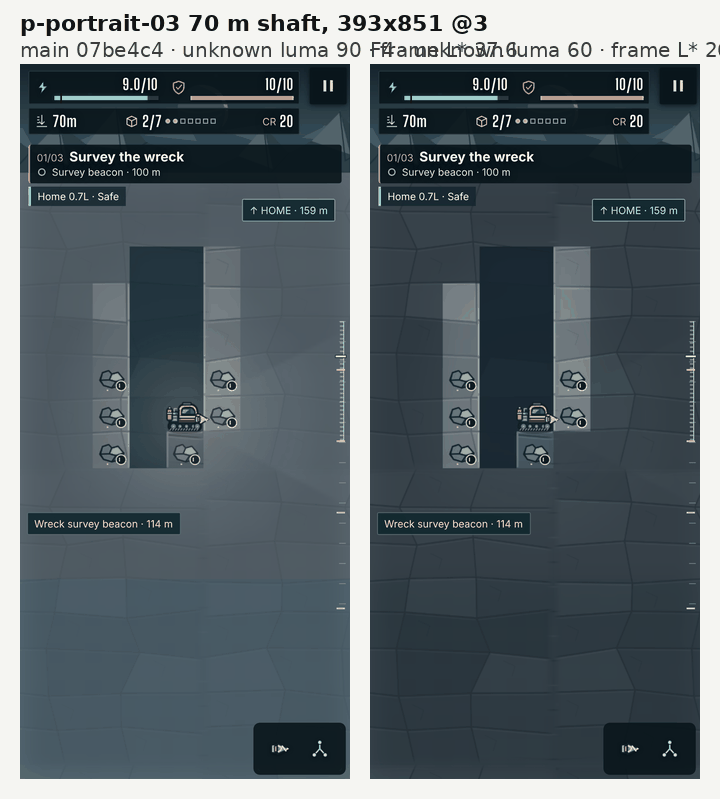
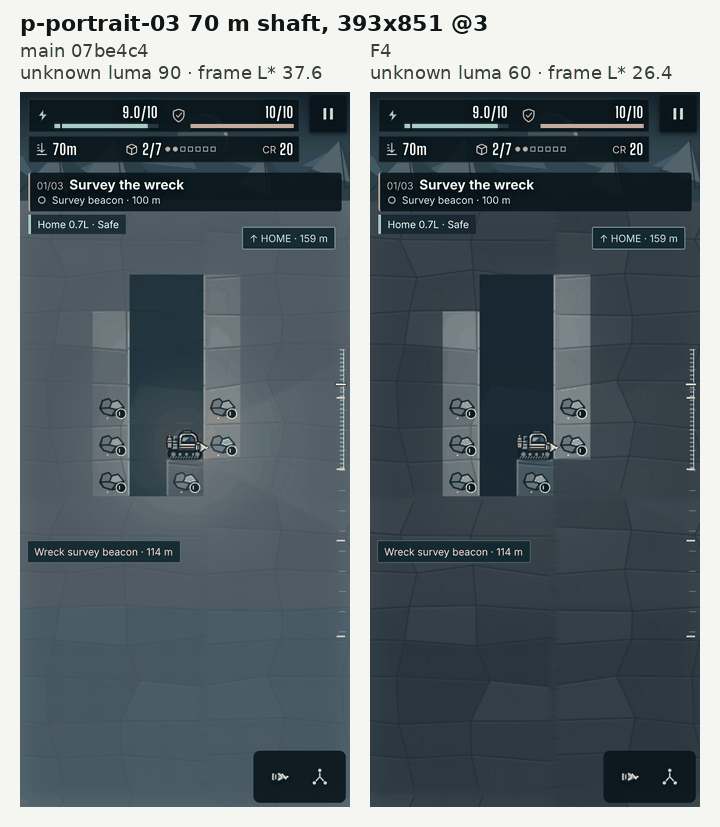
Correct and extend the F4 evidence
- Measure lit hard rock in every band of both worlds: five new frames
  (W01 A 76 m, W01 B 176 m and 266 m, W02 A 106 m, W02 C 526 m) on the
  same source as 3b4a451 and on main. All clear +15; W02 D (+9.2) is
  still the only miss. W01 band B had no frame before.
- W02 D explanation: known hard rock draws its rock page at full
  opacity and the pages are opaque, so the stone base colour #39425c
  is hidden. The lever is the rock page, an asset. Less visible
  darkness also lightens cave air, which breaks unknown - cave air.
- Backing 2.0: sd was 2.9-4.6 on the first F4 revision with F1, not
  "the same" as 2.8-3.8 at backing 1.0.
- Note the fallback strata colour change for unknown cells.
- Redraw the p-portrait-03 sheet so its labels no longer overlap.

Claude-Session: https://claude.ai/code/session_0122q1oSw1t3ScHNBMR5yw6c

diff --git a/docs/qa/f4-value-rekey/README.md b/docs/qa/f4-value-rekey/README.md
@@ -1,6 +1,6 @@
 # F4 value re-key
 
-Evidence for F4 in `docs/ART_QUALITY_AUDIT.md` (§5.2, Phase 0): the darkness order, the unknown-rock and cave-air bases, the deleted cream lamp, and the high-contrast floor. All figures come from commit 3b4a451 against `main` at 07be4c4.
+Evidence for F4 in `docs/ART_QUALITY_AUDIT.md` (§5.2, Phase 0): the darkness order, the unknown-rock and cave-air bases, the deleted cream lamp, and the high-contrast floor. All figures come from the source at commit 3b4a451 (later commits change only this folder) against `main` at 07be4c4.
 
 ## Changes
 
@@ -18,7 +18,7 @@ Evidence for F4 in `docs/ART_QUALITY_AUDIT.md` (§5.2, Phase 0): the darkness or
   | W02 D | 0.16 / 0.52 / 0.52 | 0.31 / 0.24 / 0.18 |
 
   Unknown rock now gets most of its value from its dark base and rock page. Its darkness only trims it into luma 45–65, so remembered and visible darkness have to sit below it. W02's rock pages are much lighter than W01's in bands A–C (mean luma 100–124, against 77–83), so its unknown darkness is higher there.
-- **Unknown rock** (`render/terrain.ts`). The base is `#30383f` on W01 and `#2f4250` on W02, under the band's rock page at 0.5 alpha. On `main` it was `#596771` or `#5d7782` under the soil page at 0.23. The page is chosen by the row's band alone, and unknown cells keep the `"unknown"` signature, so no hidden tile data is read.
+- **Unknown rock** (`render/terrain.ts`). The base is `#30383f` on W01 and `#2f4250` on W02, under the band's rock page at 0.5 alpha. On `main` it was `#596771` or `#5d7782` under the soil page at 0.23. The page is chosen by the row's band alone, and unknown cells keep the `"unknown"` signature, so no hidden tile data is read. When the page texture is missing, the fallback strata over unknown cells take the band's rock colour instead of its soil colour, to match the page.
 - **Cave air** (`render/terrain.ts`). Known air, both caves and tunnels, starts from `#17242e` before light instead of the band's back-wall colour. The wall page over it drops from 0.55 to 0.25 alpha, so cave air before light stays near its base, at L\* about 14–17. At 0.55 the page lifted W02 cave air to L\* 20–23.
 - **Cream lamp** (`scene.ts`). The 256 px cream radial image drawn with normal blending around the rig is deleted.
 - **High contrast.** It keeps its ×0.65 multiplier, and unknown darkness has a backstop cap of 0.36. That cap keeps unknown rock at or above L\* 18 on its darkest band, W02 D, which is about luma 64 before darkness. At these values the cap never takes effect, because high contrast only lightens. The tests check the floor itself.
@@ -28,16 +28,16 @@ No geometry, light-map structure, overlay or asset changes. `RenderBand.wall` an
 
 ## Acceptance
 
-The table covers the five audit captures at 1440×900 @2 and 393×851 @3, frozen after the view settles. It also includes two W01 frames with hard rock beside the shaft (bands C and D) and W02 shafts in all four bands. Neither `main` nor this branch has F1, so desktop frames render at backing 1.0 and the phone at 1.5.
+The table covers the five audit captures at 1440×900 @2 and 393×851 @3, frozen after the view settles. It also includes W02 shafts in all four bands, and frames with hard rock lit beside the shaft in every band of both worlds, because the lines name no world and hard rock never appears lit in the five captures. Neither `main` nor this branch has F1, so desktop frames render at backing 1.0 and the phone at 1.5.
 
 | Line | Target | `main` | F4 | |
 |---|---|---|---|---|
 | Unknown rock luma, W01 | 45–65 | 84.6–90.7 | 50.3–62.0 | met |
 | Unknown rock luma, W02 | 45–65 | 99.7–116.9 | 48.1–64.2 | met |
-| Unknown rock sd | ≥ 7 | 2.7–6.3 | 2.8–4.7 on cell interiors (W02 70 m: 7.1 and 8.3, from the lamp's falloff); 3.4–6.7 on whole cells | **not met** |
-| Lit soil − unknown, every depth | ≥ +15 | −7.4 to +77.2 | +40.5 to +131.8 | met |
-| Lit hard rock − unknown, W01 C and D | ≥ +15 | +3.3, −4.3 | +24.0, +25.8 | met |
-| Lit hard rock − unknown, W02 B and D | ≥ +15 | −16.4, −33.3 | +27.6, **+9.2** | **not met in W02 D** |
+| Unknown rock sd | ≥ 7 | 2.7–6.3 | 2.8–4.7 on cell interiors (W02 band A: 7.0–8.3, from the lamp's falloff); 3.4–6.7 on whole cells | **not met** |
+| Lit soil − unknown, every depth | ≥ +15 | −7.4 to +91.5 | +40.5 to +144.5 | met |
+| Lit hard rock − unknown, W01 bands A–D | ≥ +15 | −19.3 to +6.8 | +16.5 to +25.8 | met |
+| Lit hard rock − unknown, W02 bands A–D | ≥ +15 | −33.3 to +11.6 | +27.6 to +63.3 in A–C, **+9.2** in D | **not met in W02 D** |
 | Unknown − cave air | ≥ +10 | +34.0 to +54.7 | +11.4 to +25.1 | met |
 | Frame L\*, shaft (a04) | 25.9 ± 4 | 37.6 | 26.5 | met |
 | Frame L\*, cavern (c-site-W01-SITE-4) | 21.0 ± 4 | 26.4 | 19.8 | met |
@@ -56,27 +56,39 @@ Per frame, `main` → F4:
 | b-550m band D | 85.6 / 4.0 → 50.3 / 3.8 | +7.2 → +43.2 | — | +54.7 → +19.5 | 34.8 → 21.7 | 7.2 % → 7.2 % |
 | c-site-W01-SITE-4 | 84.6 / 2.7 → 51.3 / 2.8 | +19.6 → +44.8 | — | +53.4 → +19.2 | 26.4 → 19.8 | 31.5 % → 36.0 % |
 | p-portrait-03 70 m | 90.5 / 4.6 → 60.1 / 4.3 | +23.1 → +56.5 | — | +34.0 → +22.0 | 37.6 → 26.4 | 14.9 % → 20.9 % |
+| W01 band A, hard rock, 76 m | 90.2 / 4.2 → 60.4 / 4.1 | +31.5 → +58.9 | +6.8 → +25.1 | +35.3 → +22.5 | 38.4 → 26.2 | 4.9 % → 6.4 % |
+| W01 band B, hard rock, 176 m | 88.8 / 4.0 → 57.5 / 3.7 | +34.6 → +61.0 | −19.3 → +16.5 | +41.9 → +19.6 | 37.6 → 24.9 | 5.7 % → 6.8 % |
+| W01 band B, hard rock, 266 m | 88.4 / 4.2 → 56.6 / 4.2 | +27.8 → +60.4 | −4.6 → +21.8 | +41.8 → +20.6 | 37.5 → 24.7 | 5.6 % → 6.9 % |
 | W01 band C, hard rock, 380 m | 86.9 / 3.5 → 54.1 / 3.3 | +3.5 → +40.5 | +3.3 → +24.0 | +40.1 → +11.4 | 36.4 → 23.2 | 5.9 % → 6.9 % |
 | W01 band D, hard rock, 530 m | 85.8 / 3.7 → 50.4 / 3.7 | −7.4 → +41.7 | −4.3 → +25.8 | +50.2 → +12.4 | 35.8 → 21.6 | 6.1 % → 7.1 % |
 | W02 band A, 70 m @2 | 115.9 / 4.8 → 61.9 / 7.1 | +77.2 → +131.8 | — | +49.8 → +21.4 | 48.8 → 28.1 | 5.8 % → 7.0 % |
 | W02 band A, 70 m @3 | 116.9 / 6.3 → 64.2 / 8.3 | +76.2 → +129.8 | — | +50.8 → +23.6 | 49.9 → 31.2 | 16.9 % → 20.1 % |
+| W02 band A, hard rock, 106 m | 114.6 / 5.6 → 61.8 / 7.0 | +91.5 → +144.5 | +11.6 → +63.3 | +47.9 → +20.7 | 48.5 → 27.9 | 5.8 % → 6.7 % |
 | W02 band B, 300 m | 108.1 / 3.9 → 62.8 / 4.1 | +50.6 → +98.0 | −16.4 → +27.6 | +46.0 → +13.9 | 44.9 → 28.5 | 5.8 % → 10.2 % |
+| W02 band C, hard rock, 526 m | 104.8 / 4.1 → 63.2 / 4.7 | +20.9 → +79.7 | −0.9 → +38.4 | +47.9 → +24.1 | 43.9 → 27.7 | 5.5 % → 7.1 % |
 | W02 band C, 600 m | 104.7 / 4.2 → 63.1 / 4.7 | +36.8 → +83.7 | — | +50.9 → +25.1 | 44.0 → 28.0 | 5.8 % → 7.8 % |
 | W02 band D, 850 m | 99.7 / 4.0 → 48.1 / 3.6 | +22.2 → +72.3 | −33.3 → +9.2 | +51.8 → +11.4 | 41.2 → 20.9 | 6.5 % → 9.8 % |
 
-**High contrast** (F4): unknown rock averages L\* 22.7–31.8 across these frames, and its 2nd percentile is at L\* 20.3 or above. Both clear the L\* 18 floor.
+**High contrast** (F4): unknown rock averages L\* 22.7–31.8 across the twelve frames measured in high contrast, and its 2nd percentile is at L\* 20.3 or above. Both clear the L\* 18 floor. The five hard-rock frames for bands A and B of W01 and A and C of W02 were measured in normal mode only. There, unknown rock's 2nd percentile is already at L\* 20.9 or above, and high contrast only lightens it.
 
 ### Not met: unknown sd ≥ 7
 
-The band rock pages have a luma sd of 9.0, or 8.6 as drawn. Over a flat base at the specified 0.4–0.5 alpha, they give unknown rock a texture sd of at most 0.5 × 8.6 ≈ 4.3 before darkness. Darkness lowers it further. The few frames above 7 on cell interiors (W02 70 m) get there from the lamp's falloff. On whole cells away from known space, every frame is 3.4–6.7. Backing scale does not change this: with F1 merged and pinned at backing 2.0, the desktop captures measure the same. Reaching sd ≥ 7 needs higher-contrast rock pages or the page at full value (the audit's T2 and art items). Both are outside F4, which allows no asset changes.
+The band rock pages have a luma sd of 9.0, or 8.6 as drawn. Over a flat base at the specified 0.4–0.5 alpha, they give unknown rock a texture sd of at most 0.5 × 8.6 ≈ 4.3 before darkness. Darkness lowers it further. The few frames at 7 or above on cell interiors (the W02 band A frames) get there from the lamp's falloff. On whole cells away from known space, every frame is 3.4–6.7. Backing scale changes this little: F4's first revision, merged with F1 and pinned at backing 2.0, gave the W01 desktop captures sd 2.9–4.6, against 2.8–3.8 here at backing 1.0. Reaching sd ≥ 7 needs higher-contrast rock pages or the page at full value (the audit's T2 and art items). Both are outside F4, which allows no asset changes.
 
 ### Not met: lit hard rock in W02 band D
 
-W02 D's stone (`#39425c` under its rock page, mean luma 65) is barely lighter than W02 D's unknown rock before darkness (luma 64). The light map's blur also carries unknown darkness into rock cells next to it. So lit hard rock there stands only +9.2 above unknown. Raising it to +15 would push unknown rock below luma 45, or would need a lighter W02 D stone colour, which is outside F4. Lit soil in the same frame stands +72.3 above unknown. W01's hard rock clears the line in bands C and D.
+Known hard rock draws its band's rock page at full opacity, and the pages have no transparency, so lit hard rock takes the page's value. W02 D's page has mean luma 65, and W02 D's unknown rock is luma 64 before darkness. The gap between them comes from darkness alone (unknown 0.31 against visible 0.18), and the light map's blur also carries unknown darkness into rock cells next to it. So lit hard rock stands only +9.2 above unknown.
+
+F4's levers cannot reach +15 without failing another line:
+- More unknown darkness pushes unknown rock below luma 45; it is 48.1.
+- Less visible darkness lightens cave air too, and cave air sits only 11.4 below unknown. An intermediate revision with W02 D's visible darkness at 0.04 put cave air 7.6 below unknown, under the +10 line, and still lifted lit hard rock only to +11.5.
+
+A lighter W02 D rock page would reach +15, but that is an asset change, outside F4. The stone base colour (`#39425c`) is hidden under the opaque page, so changing it would show nothing. Lit soil in the same frame stands +72.3 above unknown, and hard rock clears the line in every other band of both worlds.
 
 ### Trade-offs
 
 - **Known space is lighter, and the lamp lifts it less.** Remembered and visible darkness must sit below unknown, so known space far from the lamp is lighter than on `main`. Known rock in the cavern frame averages 86.6, against 64.5. With little darkness left to erase, the headlamp lifts known air near the rig by only +0.6 to +3.0 luma, against +10.7 to +16.8 on `main`; the deleted cream lamp added to that lift. The audit's additive headlamp (T1) is the step that brings the lamp back.
+- **Thin margins.** Lit hard rock stands +16.5 above unknown at W01 176 m, and cave air sits 11.4 below unknown at W01 380 m and W02 850 m.
 - **W02 against its provisional key.** The audit's provisional W02 key puts unknown rock at luma 64–75, and the owner's line is 45–65. W02 bands A–C sit at 62–64, inside the owner's range and just under the key; band D is at 48. The W02 key waits on D13.
 
 ## Before and after
